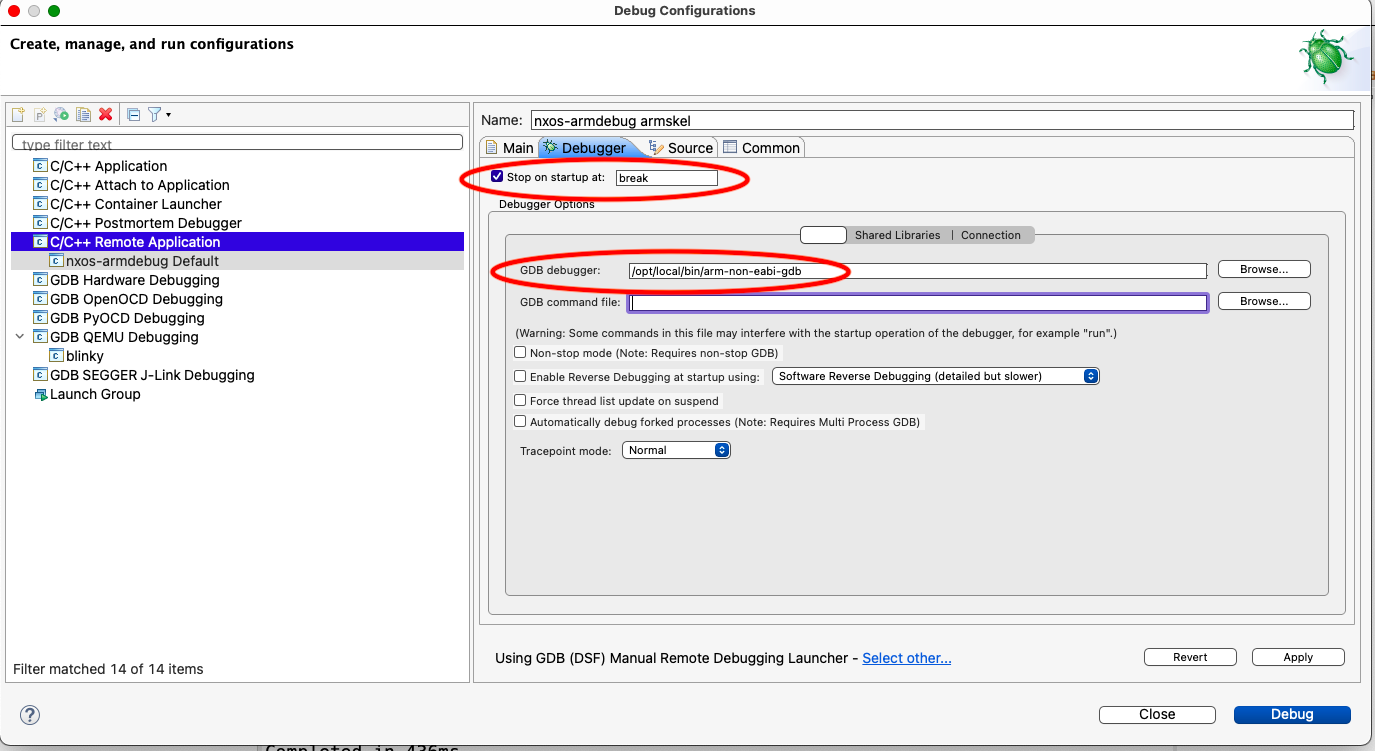
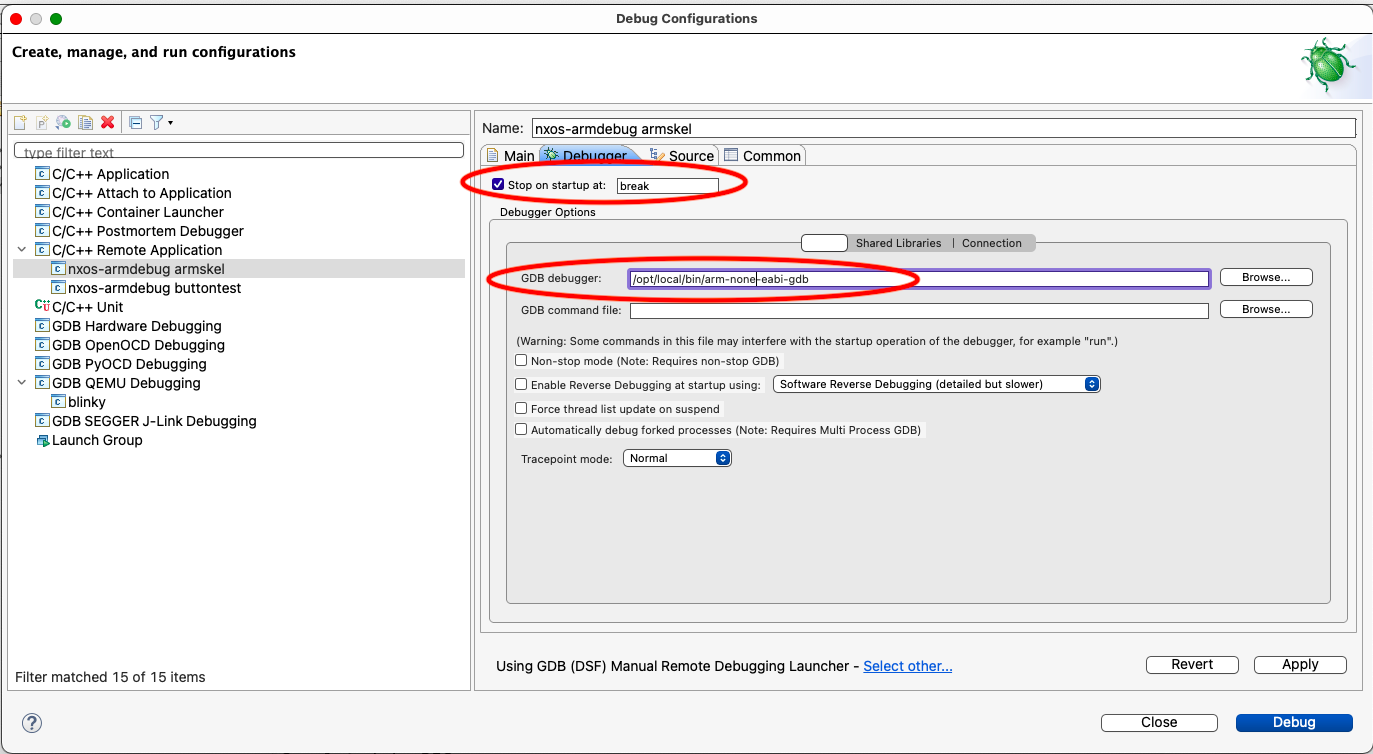
Updated Eclipse Debugging guide

Changed region(s): [[0.0, 0.0, 1.0, 1.0]]

diff --git a/guides/Eclipse-Docker-setup-BBEditPreviewTemp.md.html b/guides/Eclipse-Docker-setup-BBEditPreviewTemp.md.html
@@ -1,0 +1,224 @@
+<h1>Getting Started with NxOS-Armdebug (with Eclipse-Docker Build Environment)</h1>
+<p>NxOS-Armdebug can be built and run on various OS, due to the use of Docker to manage the build process.
+It has been tested on macOS Mojave (10.14.x) Big Sur (11.2.x), and will most likely work on other Linuxes.
+It will probably work on recent Windows OS as well, but it has not been tested.</p>
+<pre><code>For the Windows 10 platform, it is recommended to use the Windows Subsystem for Linux (WSL)
+package which provides a propoer Linux (Ubuntu-based) user environment for working with NxOS-Armdebug.
+</code></pre>
+<h2>System Requirements</h2>
+<ul>
+<li>min dual-core x86 compatible CPU</li>
+<li>min 8 GB RAM (needed to run Docker instance and Eclipse)</li>
+<li>min 8 GB free HD space</li>
+</ul>
+<h2>Set up Tools</h2>
+<ul>
+<li>install <a href="https://www.docker.com/">Docker</a></li>
+<li>install <a href="https://jdk.java.net/">JDK</a></li>
+<li>install <a href="https://www.eclipse.org/cdt/">Eclipse CDT</a></li>
+<li>install GDB Cross-Debugger (e.g. <code>arm-none-eabi-gdb</code>) from <a href="https://www.macports.org/">MacPorts</a> for macOS, or else some other source for your platform.</li>
+</ul>
+<pre><code>We will be running ARM Bare-metal applications on the NXT via NxOS-Armdebug. 
+Make sure that the version of GNU compiler tools installed is configured as `arm-none-eabi-` versions.
+`arm-linux-` or `arm-elf-` versions of the GNU compiler tools will not work.
+</code></pre>
+<h2>Install Docker Image</h2>
+<p>This is best done via the terminal or shell.</p>
+<ul>
+<li>install arm-none-eabi docker image from <a href="https://hub.docker.com/r/tcwan/arm-none-eabi-gnutools">Docker Hub</a>
+(This is based on the official ARM gcc tools release)</li>
+</ul>
+<pre><code>$ docker pull tcwan/arm-none-eabi-gnutools
+</code></pre>
+<ul>
+<li>tag docker image by listing the available images to get the &lt;image_id&gt;</li>
+</ul>
+<pre><code>$ docker images
+$ docker tag &lt;image_id&gt; arm-eabi
+</code></pre>
+<ul>
+<li>run Docker image as a standalone interactive shell in Linux/macOS to verify proper installation (mapping current directory to /home)</li>
+</ul>
+<pre><code>$ docker run -it -v$PWD:/home --rm arm-eabi bash
+[Inside Docker bash shell]
+root@5c3ceeaae138:/work# ls /home
+</code></pre>
+<h2>Install Eclipse Plugins</h2>
+<ul>
+<li>Install Eclipse Docker Tooling from Eclipse Marketplace</li>
+</ul>
+<p>First open the Eclipse Marketplace Window in Eclipse CDT, then select Docker Tooling.</p>
+<p><img src="images/Eclipse-Marketplace-Docker-Tooling.png" alt="Docker Tooling" /></p>
+<p>After Installation, add Docker Explorer View by going to “Window-&gt;Show View-&gt;Other…”</p>
+<p><img src="images/Eclipse-Add-View.png" alt="Add Docker Explorer View 1" /></p>
+<p>Select Docker Explorer View, and place it in a perspective pane.</p>
+<p><img src="images/Eclipse-Add-Docker-Explorer-View.png" alt="Add Docker Explorer View 2" /></p>
+<h1>Obtaining NxOS-Armdebug Source Code</h1>
+<p>First clone the NxOS-Armdebug project to the local hard drive.</p>
+<pre><code>$ cd &lt;workspace dir&gt;
+$ git clone https://github.com/tcwan/nxos-armdebug.git
+</code></pre>
+<p>This will create the NxOS-Armdebug folder as <code>nxos-armdebug</code> in the current directory.</p>
+<h1>Building NxOS-Armdebug applications</h1>
+<p>This can be done from the docker container bash shell prompt, or else you can define Build Targets in Eclipse and let Eclipse manage the build.</p>
+<p>Note: Internally NxOS-Armdebug uses <code>scons</code> to build the actual project code. However, since we’re performing the build via Eclipse Docker integration, a top-level <code>Makefile</code> is used to dispatch the <code>scons</code> build inside the Docker container to enable smoother Eclipse-Docker integration.</p>
+<h2>Building NxOS-Armdebug applications via command line</h2>
+<p>It is possible to build NxOS-Armdebug using natively installed cross-compilation tools, but here we will use the pre-built Docker image for simplicity and consistency.</p>
+<p>It is assumed that the Docker volume mounts have been setup properly, and you’re in the NxOS-Armdebug directory.</p>
+<p>See <a href="https://linuxize.com/post/docker-run-command/">docker run</a> to understand how to setup the
+volume parameter <code>-v</code>.</p>
+<pre><code>$ cd &lt;nxos-armdebug dir&gt;
+$ docker run -it -v$PWD:/home --rm arm-eabi bash
+
+[Insider docker image]
+# cd /home
+/home#
+</code></pre>
+<ul>
+<li>Build the application &lt;app_name&gt; (application folder should be located inside nxos/systems/)</li>
+</ul>
+<pre><code>/home# make &lt;app_name&gt;
+</code></pre>
+<ul>
+<li>Example: build the application armskel located in nxos/systems/armskel</li>
+</ul>
+<pre><code>/home# make armskel
+</code></pre>
+<ul>
+<li>Clean all generated code</li>
+</ul>
+<pre><code>/home# make clean
+</code></pre>
+<h2>Building NxOS-Armdebug applications via Eclipse</h2>
+<h3>Importing NxOS-Armdebug into Eclipse workspace</h3>
+<p>Make sure that NxOS-Armdebug project has been <a href="#obtaining-nxos-armdebug-source-code">cloned</a> to the local hard drive.</p>
+<p>Then import it into Eclipse using “File-&gt;New-&gt;Project…”</p>
+<p><img src="images/Eclipse-New-Project.png" alt="Eclipse New Project" /></p>
+<p>and select “New Makefile Project with Existing Code”.</p>
+<p><img src="images/Eclipse-Makefile-Project-from-Existing-Code.png" alt="Eclipse Makefile Project" /></p>
+<h3>Setup NxOS-Armdebug to build with Docker</h3>
+<p>To build NxOS-Armdebug applications using the Docker image, the Project setting must be updated.
+Select the Project folder in the “Project Explorer”, then choose the “Project-&gt;Properties” menu item.</p>
+<p>In the Project Properties dialog, select “C/C++ Build-&gt;Settings”, and click on the “Build Inside Docker Image” checkbox in the Container Settings tab (this should be visible if you’ve installed the Eclipse Docker Tooling plugin correctly). Don’t worry if you don’t see the “Toolchains” or “Devices” tab, these are used by the Eclipse Embedded/GNU MCU package, which is not needed for NxOS-Armdebug.</p>
+<p>Type the correct image name, either <code>arm-eabi</code> if you have tagged the docker image, or else <code>tcwan/arm-none-eabi-gnutools</code> for the full image name.</p>
+<p><img src="images/Eclipse-Docker-Build-Config.png" alt="Eclipse Docker Configuration" /></p>
+<h3>Building the application</h3>
+<p>By default Eclipse has a “Project-&gt;Build Project” menu item or a Build button which you can select. This will cause the project to perform a build if possible.</p>
+<pre><code>Note: Eclipse's &quot;Project-&gt;Build Project&quot; menu will execute the last build command
+(initially it is `make all`). However, if you've executed &quot;Project-&gt;Build Targets&quot;
+subsequently, &quot;Project-&gt;Build Project&quot; will not work as expected.
+</code></pre>
+<p><code>make all</code> will cause <code>scons</code> to rebuild the last built application. If no applications were built previously it will build the libraries only.
+However, it is not recommended to depend on <code>make all</code> for compiling NxOS-Armdebug applications since the outcome is not reliable.</p>
+<p>If you select “Project-&gt;Clean…” (<code>make clean</code>) Eclipse will remove object code and generated output files.</p>
+<h3>Defining Specific Build Targets</h3>
+<p><img src="images/Eclipse-Create-Build-Targets.png" alt="Eclipse Build Targets" /></p>
+<p>Eclipse provides a quick way to define specific build targets for a project. By right-clicking on the “Build Targets” item in the Project Explorer panel, you can access the “Create…” dialog to define build targets.</p>
+<p>You should define build targets for specific applications instead of using the default target <code>all</code>. The name of the build target should be: <code>&lt;app_name&gt;</code>.
+For example, to create a build target for the armskel project, just type <code>armskel</code> into the target name field.</p>
+<h1>Running and Debugging NxOS-Armdebug application</h1>
+<p><img src="images/Remote-GDB-Configuration.png" alt="Cross-Debugging" /></p>
+<p>NxOS-Armdebug applications run on the NXT brick. This process is termed cross-debugging, since it involves executing a program compiled on the PC for a device using a different CPU architecture.
+Cross-debugging for NXT involves the following steps:</p>
+<ul>
+<li>Establishing communications between the PC and the NXT brick via USB cable</li>
+<li>Downloading applications (*.rxe) into the NXT brick using <code>nxtfilemgr</code></li>
+<li>Configuring software debugging for the GDB server on the PC with the GDB stub on the NXT using <code>armnxtgdbserver</code></li>
+<li>Configuring the Eclipse GDB Client (during initial debugging session)</li>
+<li>Debugging the NXT applicaiton remotely</li>
+</ul>
+<h2>Downloading applications into the NXT brick</h2>
+<p>It is assumed that the build process for the application has completed, and the <code>&lt;app&gt;.rxe</code> executable file has been generated successfully.</p>
+<pre><code>Note: Several binary output files are created in the application project directory:
+- &lt;app&gt;.rxe, which is the ARM bare-metal executable for downloading to the NXT brick and executed from RAM
+- &lt;app&gt;_rxe.elf, which contains the debug symbols and object code used by the Eclipse debugger
+
+You can ignore the other *.bin and *.elf output files as they're only needed if the application is flashed directly into the NXT Firmware 
+(WARNING: Flashing the *.bin application into the NXT will erase the existing NXT firmware).
+</code></pre>
+<p>NXT File Manager (<code>nxtfilemgr</code>) is a X-Windows based application included with NxOS-Armdebug for downloading the application RXE file into the NXT RAM.
+To run <code>nxtfilemgr</code>, you will need to have a X-server program on the PC. The Linux GUI Desktop has built-in X-server support. macOS requires the installation of the XQuartz X-server application.
+There are X-servers available for Windows platform but it has not been tested with <code>nxtfilemgr</code>.</p>
+<pre><code>$ cd &lt;nxos-armdebug dir&gt;
+$ scripts/nxtfilemgr
+</code></pre>
+<p><img src="images/NXT-File-Manager.png" alt="NXT File Manager" /></p>
+<p>From the NXT File Manager application, you can use the “Add” button to select the <code>*.rxe</code> file to be downloaded to the NXT.
+Please note that the NXT expects contiguous free space to be available for the file to be downloaded.
+If the application states that there is insufficient free space available, you should first select an existing file, and then
+press the “Remove” button to delete it, in order to free up contiguous space needed for the new file.</p>
+<p>Make sure that the NxOS-Armdebug application is running (“Execute”) since the GDB server can only connect to a running NXT application. The GDB server cannot launch any NXT applications remotely.</p>
+<h2>Configuring Software Debugging for the GDB Server on the PC</h2>
+<p>Each NxOS-Armdebug application is embedded with a GDB Stub module during the build. When the <code>*.rxe</code> application is executed on the NXT, the GDB stub will wait to receive GDB debugging commands via the USB connection.
+The GDB Stub implements the GDB serial debugging protocol on top of the USB bus since the NXT does not come with a default serial port. In order to communicate with the GDB Stub module on the NXT, a GDB server is needed to interface between the GDB Clients and the USB connection.</p>
+<p>After making sure that the NXT application is running, the GDB Server <code>armnxtgdbserver</code> can then be started.
+<code>armnxtgdbserver</code> converts GDB serial protocol commands sent via the TCP-based GDB client connections into USB messages needed by the GDB Stub on the NXT and vice-versa.</p>
+<p>The GDB Server program is best run in a terminal window via the command line.</p>
+<pre><code>$ cd &lt;nxos-armdebug dir&gt;
+$ scripts/armnxtgdbserver -v
+
+### `-v` is verbose output to help in debugging the GDB Server program
+
+</code></pre>
+<p>In the terminal window, follow the directions given until the prompt:</p>
+<pre><code>Waiting for GDB connection on port 2828...
+</code></pre>
+<p>is displayed. This means that the GDB Server is now ready to accept connections from the GDB Client process.</p>
+<p><img src="images/ARMNXTGDBServer-Trace.png" alt="ARM NXT GDB Server" /></p>
+<h2>Configuring the Eclipse GDB Client</h2>
+<p>The Eclipse IDE has a built-in GDB Client which provides source level cross-platform debugging capabilities.</p>
+<p>First, create a new Debug Launch Configuration via the Run Menu “Debug Configurations…” menu item.</p>
+<p><img src="images/Eclipse-Menu-Debug-Configurations.png" alt="Eclipse Debug Configuration" /></p>
+<p>Then, in the Dialog, double-click on the “C/C++ Remote Applicaiton” item in the left panel.</p>
+<p><img src="images/Eclipse-Debug-Configuration-Dialog.png" alt="Eclipse Debug Dialog" /></p>
+<p>This will create a new Debug Launch Configuration entry, with the corresponding configuration dialog.</p>
+<p>Make sure that the Name of the Launch Configuration reflects the application to be debugged.
+In addition, the C/C++ Application field <em>MUST</em> point to the <code>&lt;app&gt;_rxe.elf</code> file for the application.</p>
+<p><img src="images/Eclipse-DebugConfig-Main.png" alt="Eclipse Debug Main Tab" /></p>
+<p>Then, the GDB Remote Debugging Launcher must be changed by clicking on “Select Other…” at the bottom of the dialog.
+First, check the “Use Configuration Specific Setting” checkbox, then select the “GDB (DSF) Manual Remote Debugging Launcher” item.</p>
+<p><img src="images/Eclipse-DebugConfig-Main-Launcher.png" alt="Eclipse Debug Manual Launcher" /></p>
+<p>After clicking on “Ok”, it will return to the main configuration dialog. We will then configure the “Debugger” tab next.
+Change the initial breakpoint given by “Stop on Startup at:” to <code>break</code>.</p>
+<p><img src="images/Eclipse-DebugConfig-Main-Debugger.png" alt="Eclipse Debug Debugger Tab" /></p>
+<p>The “Debugger” tab has three sub-tabs. In the “Main” subtab, we need to configure the “GDB Debugger” field to the full path for the cross-platform GDB client which can understand ARM bare-metal executable files.
+Generally, this is named <code>arm-none-eabi-gdb</code> in MacPorts, as well as most Linux distributions.</p>
+<pre><code>Generic GDB with multiarch support (which needs to be enabled during tool installation) can be used
+but it will need to have the executable target type configured correctly via the command prompt or .gdbinit. 
+
+It is easier to install the `arm-none-eabi-` version instead since everything is pre-configured.
+</code></pre>
+<p><img src="images/Eclipse-DebugConfig-Main-Debugger-Connection.png" alt="Eclipse Debug Connection" /></p>
+<p>Finally, in the “Connection” subtab, the port should be changed to <code>2828</code>.</p>
+<p>After all the changes have been made, click “Apply” and “Close” the dialog to save the settings.</p>
+<h2>Debugging the NXT application remotely</h2>
+<p><em>Note: Make sure that the NXT application has been <a href="#downloading-applications-into-the-nxt-brick">downloaded and running</a>, and GDBServer is <a href="#configuring-software-debugging-for-the-gdb-server-on-the-pc">running</a> before invoking the Eclipse Debug Perspective on the PC.</em></p>
+<p>After the configuration of the Debug Launch Configuration, launch it, and switch over to the Eclipse Debug Perspective.</p>
+<p>Eclipse will display the Debugging window, with the  the process panel and source listing for the main applicaiton.
+Initially, the program will be shown in a running state, since the NXT Debugger will not respond until a command is issued from within the GDB Debugger screen.
+Pause the execution of the NXT application using the <code>Pause</code> (double vertical bar) button.</p>
+<p><img src="images/Eclipse-GDB-Initial-Debug.png" alt="Debug Perspective" /></p>
+<p>The Debug Perspective will then show which routine the program is currently stopped in, the variables and breakpoints inspection panel, a listing of the current line in the source file, and the console information for GDB.</p>
+<p><img src="images/Eclipse-GDB-Remote-Debug.png" alt="Debug Pause" /></p>
+<p>Since the template NxOS-Armdebug program has defined a breakpoint at the label <code>break</code>, it should indicate that the application exeuction has stopped at that breakpoint.
+In this case, it stopped after executing the instruction at the breakpoint.</p>
+<p>The contents of variables and CPU registers can be inspected via the Reister pane. For the NXT, only the CPSR/SPSR and General Purpose Registers (<code>R0-R15</code>) are valid.
+The Floating-point registers are not found in the ARMv4T CPU used in the NXT and will show dummy content.</p>
+<p>If the Register pane is not visible, add it via the “Window” menu, “Show View”, “Registers” menu item.
+The pane can be move to the appropriate window group for easy reference (typically in the same window as the “Variables” pane).
+Since GDB is primarily a C-based debugger, the variables will not show relevant information for ARM Assembly programs.</p>
+<p><img src="images/Eclipse-Debug-Register-Enable.png" alt="Enabling Register Pane" /></p>
+<p>When <code>Single Step</code> is pressed, the ARM CPU will execute the next instruction, pause, and display the updated register contents with highlighting.</p>
+<p><img src="images/Eclipse-GDB-Remote-Debug-Stepin.png" alt="Step-In Subroutine" /></p>
+<h2>Setting Breakpoints</h2>
+<p>The GDB Debugger allows single-stepping and continue. <code>Single-Stepping</code> will execute one instruction at a time on the ARM CPU.
+<code>Continue</code> will resume execution of the program without pausing until the next breakpoint is encountered.</p>
+<p>To set a breakpoint, double-click on the line number column. This will set a <code>breakpoint</code> which is indicated by a blue dot.</p>
+<p><img src="images/Eclipse-GDB-Remote-Debug-Breakpoint.png" alt="Setting Breakpoints" /></p>
+<p>After stopping at a breakpoint, pressing <code>Continue</code> will single-step past the current instruction and stop. This is because the Debugger stub needs to update the instruction memory with the original instruction at the previous breakpoint. The Second press of <code>Continue</code> will continue execution without stopping.</p>
+<pre><code>WARNING: Single stepping and breakpoints should not be used inside Interrupt Service Routines 
+(Exception Routines) since ARMDebug uses software instructions to implement breakpoints. 
+
+Interrupts are disabled inside Interrupt Service Routines, and ARMDebug would not receive the 
+necessary interrupt from the USB bus to exchange data with the PC.
+</code></pre>

diff --git a/guides/Eclipse-Docker-setup.md b/guides/Eclipse-Docker-setup.md
@@ -14,8 +14,9 @@ package which provides a propoer Linux (Ubuntu-based) user environment for worki
 
 ## Set up Tools
 - install [Docker](https://www.docker.com/)
+- install [JDK](https://jdk.java.net/)
 - install [Eclipse CDT](https://www.eclipse.org/cdt/)
-- install GDB Cross-Debugger (e.g. `arm-none-eabi-gdb`) from MacPorts, or else some other source.
+- install GDB Cross-Debugger (e.g. `arm-none-eabi-gdb`) from [MacPorts](https://www.macports.org/) for macOS, or else some other source for your platform.
 
 ```
 We will be running ARM Bare-metal applications on the NXT via NxOS-Armdebug. 
@@ -224,10 +225,13 @@ $ scripts/armnxtgdbserver -v
 
 In the terminal window, follow the directions given until the prompt:
 ```
-Waiting for GDB connection on port XXXX...
+Waiting for GDB connection on port 2828...
 ```
 
 is displayed. This means that the GDB Server is now ready to accept connections from the GDB Client process.
+
+![ARM NXT GDB Server](images/ARMNXTGDBServer-Trace.png)
+
 
 ## Configuring the Eclipse GDB Client
 
@@ -265,12 +269,12 @@ Generally, this is named `arm-none-eabi-gdb` in MacPorts, as well as most Linux 
 Generic GDB with multiarch support (which needs to be enabled during tool installation) can be used
 but it will need to have the executable target type configured correctly via the command prompt or .gdbinit. 
 
-It is easier to install the `arm-non-eabi-` version instead since everything is pre-configured.
+It is easier to install the `arm-none-eabi-` version instead since everything is pre-configured.
 ```
 
 ![Eclipse Debug Connection](images/Eclipse-DebugConfig-Main-Debugger-Connection.png)
 
-Finally, in the "Connection" subtab, the port should be changed to 2828.
+Finally, in the "Connection" subtab, the port should be changed to `2828`.
 
 After all the changes have been made, click "Apply" and "Close" the dialog to save the settings.
 
@@ -281,24 +285,40 @@ After all the changes have been made, click "Apply" and "Close" the dialog to sa
 After the configuration of the Debug Launch Configuration, launch it, and switch over to the Eclipse Debug Perspective. 
 
 Eclipse will display the Debugging window, with the  the process panel and source listing for the main applicaiton. 
-Initially, the progrma will be shown in a running state, since the NXT Debugger will not respond until a command is issued from within the GDB Debugger screen.
+Initially, the program will be shown in a running state, since the NXT Debugger will not respond until a command is issued from within the GDB Debugger screen.
 Pause the execution of the NXT application using the `Pause` (double vertical bar) button.
+
+![Debug Perspective](images/Eclipse-GDB-Initial-Debug.png)
 
 The Debug Perspective will then show which routine the program is currently stopped in, the variables and breakpoints inspection panel, a listing of the current line in the source file, and the console information for GDB.
 
-![Debug Perspective](images/pics/eclipse-gdb-remote-debug.png)
+![Debug Pause](images/Eclipse-GDB-Remote-Debug.png)
 
 Since the template NxOS-Armdebug program has defined a breakpoint at the label `break`, it should indicate that the application exeuction has stopped at that breakpoint.
+In this case, it stopped after executing the instruction at the breakpoint.
 
-The contents of variables and CPU registers can be inspected via the top middle panel. For the NXT, only the CPSR/SPSR and General Purpose Registers (`R0-R15`) are valid.
+The contents of variables and CPU registers can be inspected via the Reister pane. For the NXT, only the CPSR/SPSR and General Purpose Registers (`R0-R15`) are valid.
 The Floating-point registers are not found in the ARMv4T CPU used in the NXT and will show dummy content.
 
+
+If the Register pane is not visible, add it via the "Window" menu, "Show View", "Registers" menu item. 
+The pane can be move to the appropriate window group for easy reference (typically in the same window as the "Variables" pane).
 Since GDB is primarily a C-based debugger, the variables will not show relevant information for ARM Assembly programs.
 
-![Step-In Subroutine](images/pics/eclipse-gdb-remote-debug-stepin.png)
+![Enabling Register Pane](images/Eclipse-Debug-Register-Enable.png)
+
+When `Single Step` is pressed, the ARM CPU will execute the next instruction, pause, and display the updated register contents with highlighting.
+
+![Step-In Subroutine](images/Eclipse-GDB-Remote-Debug-Stepin.png)
+
+## Setting Breakpoints
 
 The GDB Debugger allows single-stepping and continue. `Single-Stepping` will execute one instruction at a time on the ARM CPU.
 `Continue` will resume execution of the program without pausing until the next breakpoint is encountered. 
+
+To set a breakpoint, double-click on the line number column. This will set a `breakpoint` which is indicated by a blue dot.
+
+![Setting Breakpoints](images/Eclipse-GDB-Remote-Debug-Breakpoint.png)
 
 After stopping at a breakpoint, pressing `Continue` will single-step past the current instruction and stop. This is because the Debugger stub needs to update the instruction memory with the original instruction at the previous breakpoint. The Second press of `Continue` will continue execution without stopping.
 
@@ -309,3 +329,4 @@ WARNING: Single stepping and breakpoints should not be used inside Interrupt Ser
 Interrupts are disabled inside Interrupt Service Routines, and ARMDebug would not receive the 
 necessary interrupt from the USB bus to exchange data with the PC.
 ```
+
